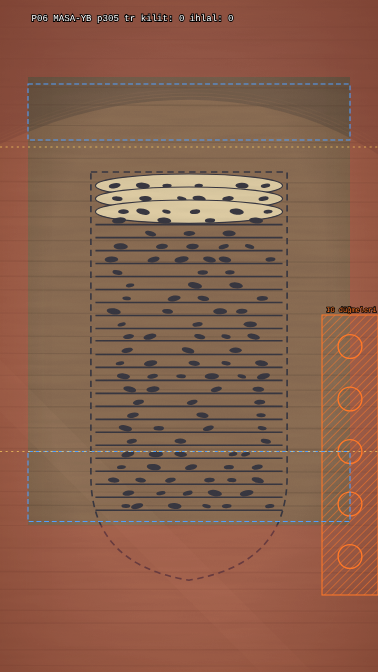
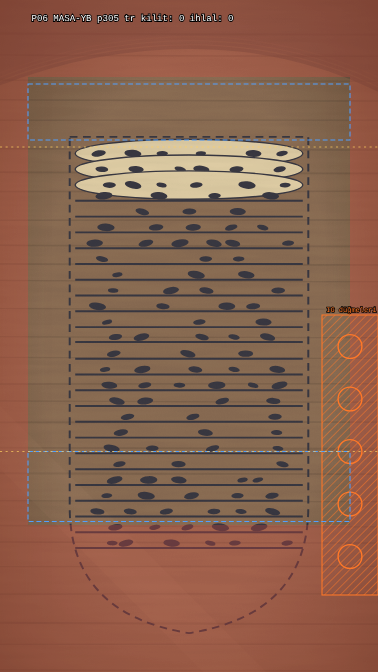
Yarasa bombası: bolum.json v1 tamam, miks.json, kontrol kareleri
Claude-Session: https://claude.ai/code/session_016TQpGZNQxZz3y2EUbxhNYZ

Changed region(s): [[0.1746, 0.1875, 0.8148, 0.8438], [0.2037, 0.8125, 0.2328, 0.8438]]

diff --git a/bolumler/yarasa-bombasi/katki-raporu.md b/bolumler/yarasa-bombasi/katki-raporu.md
@@ -122,3 +122,11 @@
 - Kararlar (yönetmen plana işlesin): P09 tünme temasları **p196–250** (uçuşlar p150 dolly bitişinden sonra başlar; önceki p150 başlangıcında uçan birey dolly sırasında kirişin önünde/üstünde okunuyordu). Yarasa ekran ölçeği gerçeğin ≈ ×1.6'sı (stilize, okunurluk). Tasarım §1.4 "yumuşak gradyan yok" gökte orkestra yönüyle değişti (onaylı yön değişikliği olarak not). **P10 kamera önerisi:** son geniş kare cs 1.0 yerine cs 1.12, cy −120 (tank + alev orta üçte bire iner, alt üçte birde ön plan çalısı ve gölgesi kalır).
 - Ölçüm (tam boy): K1 sıcak %17.3 / p95 L* 76.2 · K2 p264 %25.9 / 81.2 · K2 p310 %24.3 / 81.2 (kırmızı %3.7 izinli) · K3 %20.0 / 78.0 · P10 p60 %17.5 / 77.2 · P10 p200 %44.7 / 79.8. 360 px kendi bakışım: K1 asılı yarasalar ("yarasa": taraklı kanat, kulaklar altta), K2 çizim yarasa (profil, taraklı kanat; "kuş" değil), P10 gök şeritsiz.
 - Açık: P10 kompars hâlâ yok; P10 alt üçte bir yalnız ön plan çalısıyla doluyor, kamera önerisi yönetmende; uçuşta önden → asılıyken profil görünüş geçişi temas karesinde (hızlı hareket anı) yapılıyor.
+
+## yonetmen · 2026-11-15 · bolum.json (12 plan) + miks.json
+- Ne yaptım: `bolum.json` yazıldı (3760 kare / 62.67 sn, 3 şablon: MASA-YB, COL-US, HARITA; 4 plan içi kesme: P01 p135, P04 p228, P11 p144, P12 p112 + kesme_2 p318). TR+EN: ekran yazıları `metin`/`en`, `ses`/`ses_en`, bölüm altyazısı açık (P09 kapalı). 35 temas (foley.json adları), 7 dokunuş (YB-D1…D7). `miks.json` yazıldı (müzik db −14, duck −20, P10/P11 konuşma tavanları). Kural 7: kamera/ölçek ayarlanan planların kontrol_kare'leri render edilip bakıldı (`kontrol/`).
+- Dokunduğum dosyalar: `bolumler/yarasa-bombasi/{bolum.json, miks.json, temaslar.json, kontrol/*.png, katki-raporu.md}`.
+- Kararlar: motion düzeltmeleri işlendi (P01 p0/P12 son cs 2.4, P09 dolly p0–150 + tünme p196–250 adet 4, kapanış cs 2.53/cx 60/cy −335; P08 sonuna dolly k 0→0.15 ki P09 p0 ile eş; P10 son cs 1.12/cy −120, P10 kontrol p150; P12 A cs 1.0→1.9, cy −1303, geri p82–96; P12 B `yanik` + cizimden/cizime; döngü C: kamera alt sayfadan üst sayfaya, spiral faz0 P01 0.55 / P12 0.0421 (386 kare ofset)). Defter durumu zamanla tutarlı: P02 yarım, P03 çizilir, P04–P11 tam çizim, P12 C/P01 yalnız mürekkep çatı. P11 B/P12 A dünya eşleşmesi: defter(0,0), belge (1200,1130) ↔ P11 defter dx −400 dy −170. P06 kamera p0/p327 cs 2.6 ve P07 cs 2.6–2.8 (baş okunurluğu). P10'a darbe konmadı (alev p102'de cs 2.53'te kadraj dışı; ates-tutus + alev yeterli).
+- Kural ihlali/uyarı: doğrulayıcı 0 hata, 2 uyarı (damla-yapistir: damla yok; kagit-cevir: mekanlar §5.5 sayfa çevirme çıktı) — bilerek, planlarda `lint` notuyla.
+- kit_eksik: P02 kalem girişi (kalem p0'dan göğüs üstünde, p118 değer); P04 not bırakan el (not kendi düşer, elsiz); P05 damlalık/damla; P06 kapak kapanışı; P10 kompars siluet; P12 sayfa çevirme. Orkestra kararı gerekir: P04 elsiz not düşüşü kabul mü.
+- Açık: P01 B alevi sağ kenarda duman arkasında ince (p210); P06/P07 bölme yarasaları küçük nokta okunuyor; EN yazı katmanı yalnız doğrulayıcıyla denetlendi, EN render karesine bakılmadı; muzik_istisnalari karelerini kurgucu ses .json'dan kesinleştirsin; hareket şeridi (P09/P12) yönetmence çekilmedi; commit edilmedi.
